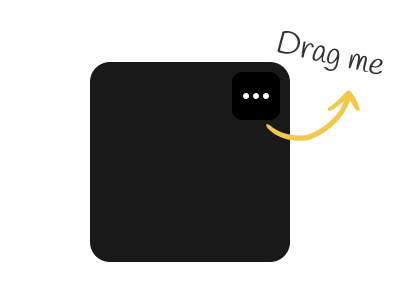
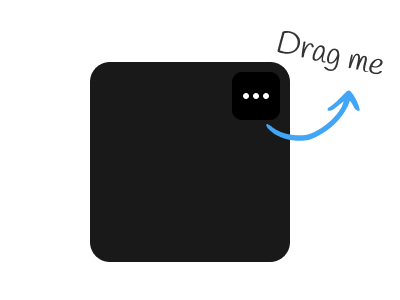
8/25

Changed region(s): [[0.66, 0.3, 0.9, 0.48]]

diff --git a/pages/lab/hover-zoom.html b/pages/lab/hover-zoom.html
@@ -1,0 +1,94 @@
+<!DOCTYPE html>
+<html lang="en">
+
+<head>
+    <meta charset="UTF-8">
+    <meta name="viewport" content="width=device-width, initial-scale=1.0">
+    <title>Document</title>
+    <link rel="stylesheet" href="../../main.css">
+</head>
+
+<body>
+    <h1>悬停放大 Hover Zoom</h1>
+    <p>要点<br>
+        1. 通过两层容器实现，外层实现圆形背景，内层用于裁切图片，背景透明，高度高于外层。<br>
+        2. 鼠标悬停时，图片以底部为缩放基点进行放大。<br>
+    </p>
+    <div class="content">
+<div class="container-out">
+    <div class="container-in">
+        <img src="../../assets/imgs/2025-08-22_lab_hover-zoom/avatar.svg" alt="">
+    </div>
+</div>
+    </div>
+    <!-- 上方标签区 -->
+    <div role="tablist">
+        <button role="tab" aria-selected="true" aria-controls="Html" id="Html">Html</button>
+        <button role="tab" aria-selected="false" aria-controls="Css" id="Css">Css</button>
+    </div>
+    <hr>
+    <!-- 第1个面板 -->
+    <div id="Html" role="tabpanel">
+        <div id="editor-html" style="height:420px;border-radius:12px;overflow:hidden"></div>
+    </div>
+    
+    <!-- 第2个面板 -->
+    <div id="Css" role="tabpanel" hidden>
+        <div id="editor-css" style="height:420px;border-radius:12px;overflow:hidden"></div>
+    </div>
+    
+    <!-- 第3个面板 -->
+    <div id="Js" role="tabpanel" hidden>
+        <div id="editor-js" style="height:420px;border-radius:12px;overflow:hidden"></div>
+    </div>
+    
+    <script src="https://cdn.jsdelivr.net/npm/monaco-editor@0.47.0/min/vs/loader.js"></script>
+    
+    <!--要展示的代码-->
+    <script src="../../main.js" type="module"></script>
+    <script>
+        require.config({ paths: { vs: 'https://cdn.jsdelivr.net/npm/monaco-editor@0.47.0/min/vs' } });
+        require(['vs/editor/editor.main'], async function () {
+            // 公共选项（可选）
+            const baseOpts = {
+                readOnly: true,
+                folding: true,
+                minimap: { enabled: false },
+                theme: 'vs-dark',
+                automaticLayout: true
+                // lineNumbers:'on', wordWrap:'on'  // 需要再开
+            };
+
+            // 1) HTML：直接用字符串（无需 fetch）
+
+            // 获取当前页面源码
+            const htmlPath = location.href; // 当前页面
+            const htmlText = await (await fetch(htmlPath)).text();
+
+            // 按行切分
+            const lines = htmlText.split("\n");
+
+            // 截取指定区间（第 19 ~ 36 行）
+            const snippet = lines.slice(17, 22).join("\n"); // 注意数组是从 0 开始
+
+            monaco.editor.create(document.getElementById('editor-html'), {
+                ...baseOpts,
+                value: snippet.trim(),
+                language: 'html'
+            });
+
+            // 2) CSS：从文件读（按你的实际路径改）
+            const cssPath = '../../../css/hover-zoom.css';
+            const cssText = await (await fetch(new URL(cssPath, location.href))).text();
+            monaco.editor.create(document.getElementById('editor-css'), {
+                ...baseOpts,
+                value: cssText,
+                language: 'css'
+            });
+        });
+    </script>
+
+    <script src="../../main.js" type="module"></script>
+</body>
+
+</html>

diff --git a/pages/products/learning-language.html b/pages/products/learning-language.html
@@ -1,0 +1,45 @@
+<!DOCTYPE html>
+<html lang="en">
+
+<head>
+    <meta charset="UTF-8">
+    <meta name="viewport" content="width=device-width, initial-scale=1.0">
+    <title>Document</title>
+    <link rel="stylesheet" href="../../main.css">
+</head>
+
+<body>
+    <h1>日语学习</h1>
+    <div class="language-table">
+        <div class="language-list">
+            <!-- 左侧放假名 -->
+            <div class="left">
+                <div id="line">我爱你</div>
+            </div>
+        
+    </div>
+    <script src="../../main.js" type="module"></script>
+    <script>
+        // 选中这句“我爱你”
+        const el = document.getElementById('line');
+        // 取出文本并清空原内容
+        const txt = el.textContent.trim();//trim把首尾的空白（空格、换行、制表符等）去掉
+        el.textContent = '';
+
+        // 把每个字包成一个 span，并绑定点击朗读
+        for (const ch of txt) {
+            const s = document.createElement('span');
+            s.textContent = ch;                 // 显示这个字
+            s.style.cursor = 'pointer';         // 可点击的小手光标
+            s.onclick = () => {                 // 点击就读这个字
+                speechSynthesis.cancel();         // 防止上一次朗读干扰
+                const u = new SpeechSynthesisUtterance(ch);
+                u.lang = 'zh-CN';                 // 中文：zh-CN（日语改 ja-JP）
+                speechSynthesis.speak(u);
+            };
+            el.appendChild(s);
+        }
+    </script>
+</body>
+
+</html>

diff --git a/pages/lab/index.html b/pages/lab/index.html
@@ -17,16 +17,21 @@
     </nav>
     <p class="text-2xs">If you can design one thing, you can design everything.</p>
     <br><br>
-    <div class="library-card-row">
-        <a class="library-card" href="./drag-to-move.html">
+    <div class="lab-card-row">
+        <a class="lab-card" href="./drag-to-move.html">
             <img src="../../assets/imgs/2025-08-19_library_Drag to Move/drag-to-move.png" alt="">
             <h3>拖拽移动</h3>
             <p class="text-2xs">Drag to Move</p>
         </a>
-        <a class="library-card" href="./drag-sort.html">
+        <a class="lab-card" href="./drag-sort.html">
             <img src="../../assets/imgs/2025-08-20_library_drag-sort/drag-sort.png" alt="">
             <h3>拖拽排序</h3>
             <p class="text-2xs">Drag Sort</p>
+        </a>
+        <a class="lab-card" href="./hover-zoom.html">
+            <img src="../../assets/imgs/2025-08-22_lab_hover-zoom/hover-zoom.png" alt="">
+            <h3>悬停放大</h3>
+            <p class="text-2xs">Hover Zoom</p>
         </a>
     </div>
 </html>

diff --git a/css/lab-card.css b/css/lab-card.css
@@ -1,10 +1,10 @@
-.library-card-row{
+.lab-card-row{
     display: flex;
     gap: 20px;
     flex-wrap: wrap;
 }
 
-.library-card {
+.lab-card {
     display: flex;
     flex-direction: column;
     border: 1px solid var(--border);
@@ -12,17 +12,17 @@
     padding: 15px;
     gap: 10px;
 }
-.library-card:hover {
+.llab-card:hover {
     background-color: var(--bg-card);
 }
-.library-card img {
+.lab-card img {
     width: 300px;
 }
 
 /* 清掉子元素的默认上下外边距 */
-.library-card>h1,
-.library-card>h2,
-.library-card>h3,
-.library-card>p {
+.lab-card>h1,
+.lab-card>h2,
+.lab-card>h3,
+.lab-card>p {
     margin: 0;
 }

diff --git a/main.css b/main.css
@@ -1,15 +1,18 @@
 @import url("css/img-row.css");
 @import url("css/tab.css");
 @import url("css/card-row.css");
-@import url("css/library-card.css");
+@import url("css/lab-card.css");
 @import url("css/drag-to-move.css");
 @import url("css/drag-sort.css");
 @import url("css/ref.css");
+@import url("css/hover-zoom.css");
+@import url("css/learning-language.css");
 
 :root {
     --bg: #fafafa; /*#FAF9F6*/
     --bg-card: #f5f5f5;
     --bg-dark:#212121;
+    --theme:#42A5F5;
     --text: #424242;/*#333333*/
     --border: #e0e0e0; 
     --theme-color: #212121 /*#B55B39*/

diff --git a/css/hover-zoom.css b/css/hover-zoom.css
@@ -1,0 +1,27 @@
+.container-out{
+    width: 120px;
+    height: 120px;
+    display: flex;
+    align-items: flex-end;
+    border-radius: 60px;
+    background-color: var(--border);
+}
+
+.container-in {
+    width: 120px;
+    height: 150px;
+    display: flex;
+    align-items: flex-end;
+    border-radius: 60px;
+    overflow: hidden
+}
+
+.container-in img {
+    transform-origin: center bottom;/* 缩放基点放在底部 */
+    width: 120px;
+    transition: all 0.2s ease-in-out;
+}
+
+.container-in:hover img {
+    transform: scale(1.25);
+}

diff --git a/js/learning-language.js b/js/learning-language.js
@@ -1,0 +1,8 @@
+const el = document.getElementById('line');
+// 先把每个字包成 <span class="char">（略）
+
+el.addEventListener('click', (e) => {
+  const s = e.target.closest('span.char'); // ← 这里在事件里“拿到”被点的 span
+  if (!s) return;
+  speak(s.textContent);
+});

diff --git a/index.html b/index.html
@@ -22,4 +22,8 @@
         <p>交互实践请移步 Lab, 文章和杂谈在 Blog 中 。</p>
         <p>希望对你有帮助！</p>
     </div>
+    <br><br>
+    <div>
+        <a href="/pages/products/learning-language.html" class="nav-link" aria-current="page">日语</a>
+    </div>
 </html>

diff --git a/main.js b/main.js
@@ -2,3 +2,4 @@ import './js/img-row.js';
 import './js/tab.js';
 import './js/drag-to-move.js';
 import './js/drag-sort.js';
+import './js/learning-language.js';

diff --git a/css/drag-sort.css b/css/drag-sort.css
@@ -28,5 +28,5 @@
     user-select: none;
 }
 .is-dragging {
-    background-color: #F2C94C;
+    background-color: var(--theme);
 }

diff --git a/css/learning-language.css b/css/learning-language.css
@@ -1,0 +1,5 @@
+.language-list{
+    display: flex;
+    flex-direction: row;
+    gap: 40px;
+}
